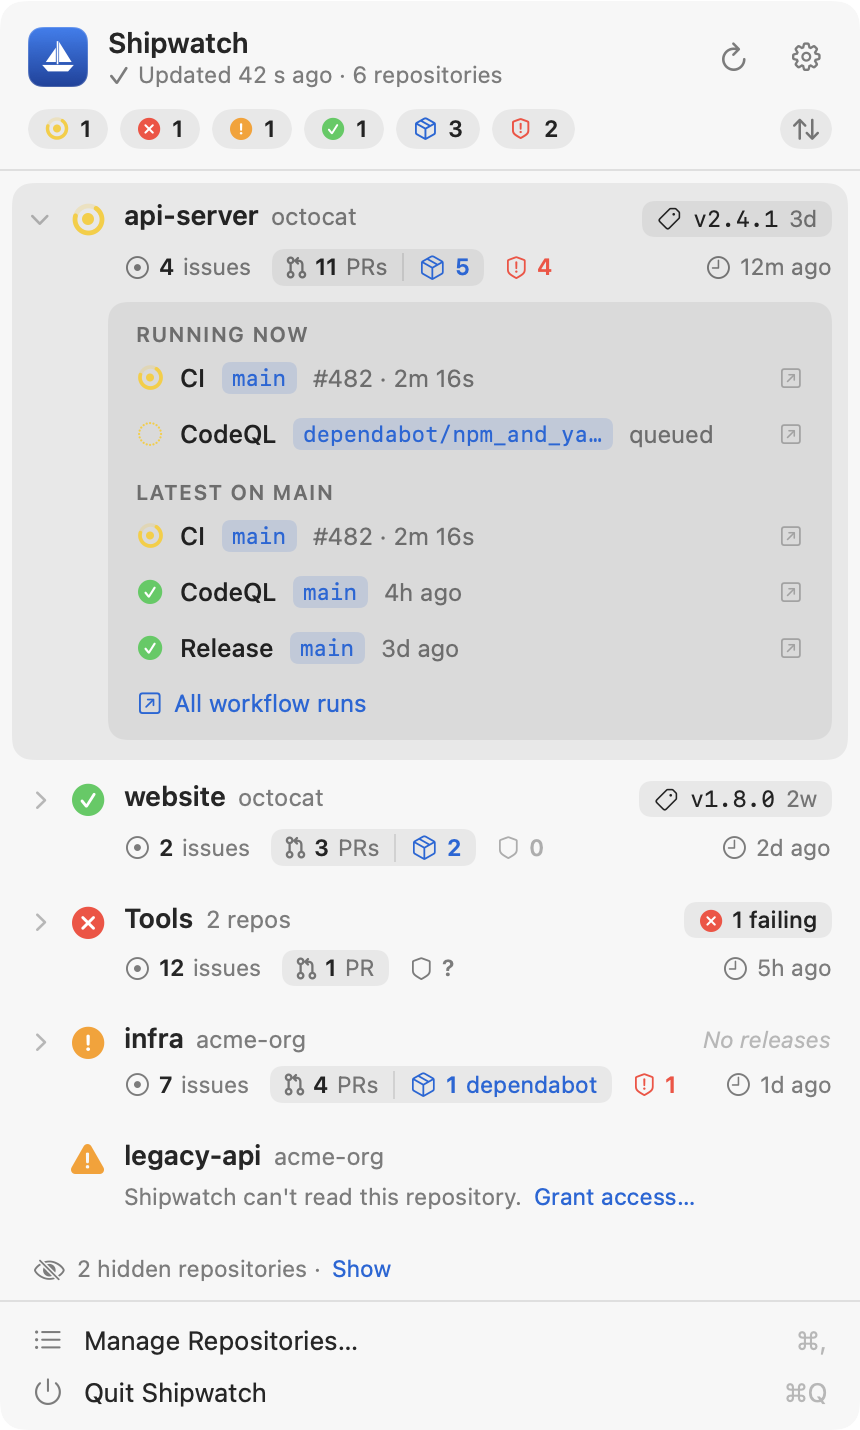
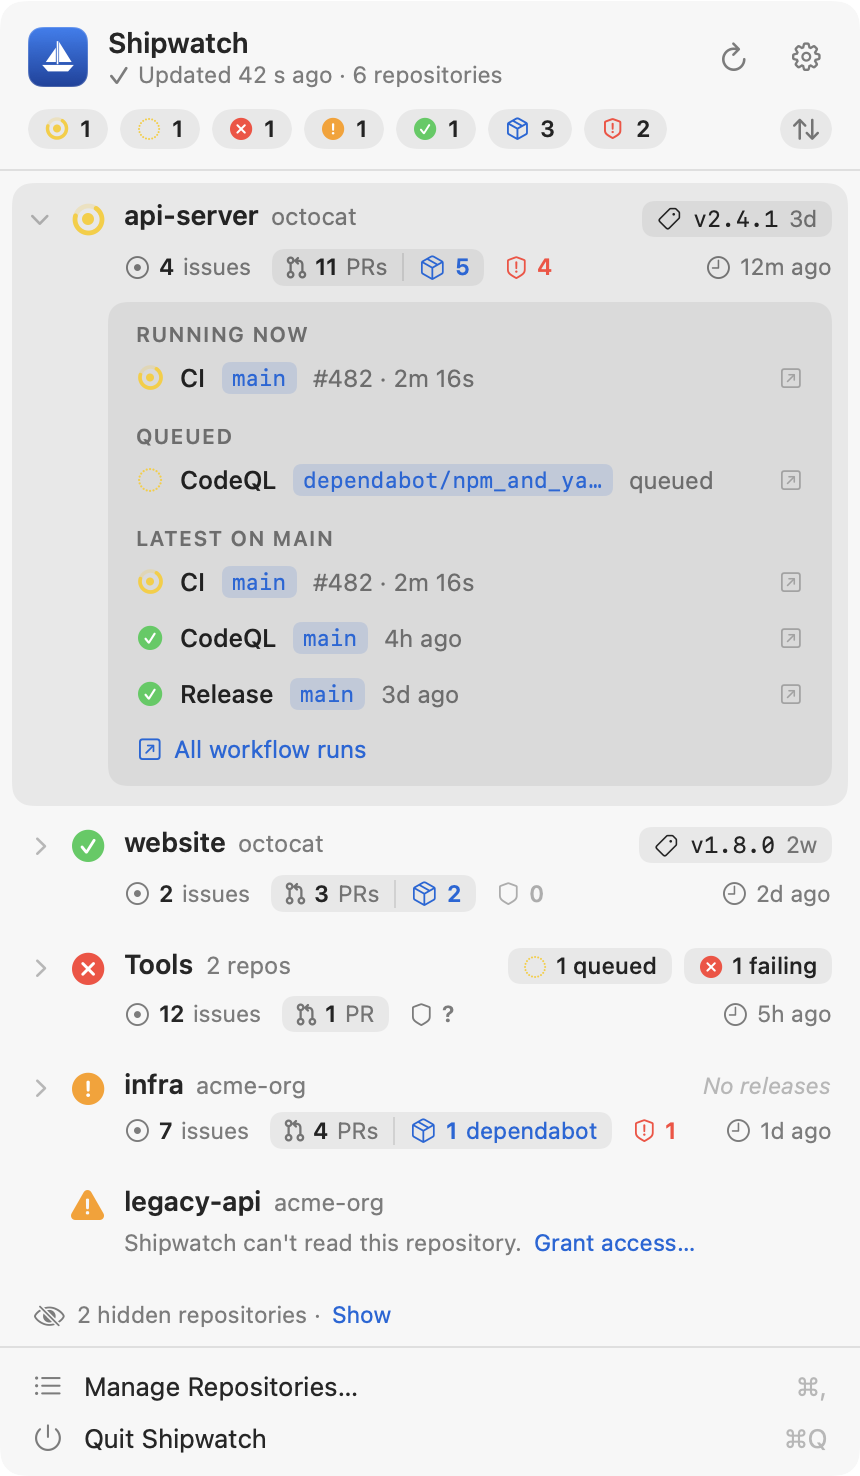
Show queued workflows as their own status instead of running
- CIState gains queued: active runs that aren't in progress yet
  (queued, waiting, requested, pending). Running beats queued, queued
  beats failing
- CISummary keeps queued runs apart from running ones, and the expanded
  row lists them under their own Queued section
- Queued gets its own chip, group breakdown count and tooltip entry; the
  running chip and menu bar count no longer include it
- The yellow dot and the 20 s refresh still cover queued runs
- Status cache version bumped so older snapshots are ignored

diff --git a/Sources/ShipwatchSnapshots/main.swift b/Sources/ShipwatchSnapshots/main.swift
@@ -60,6 +60,7 @@ func mockStatuses() -> [RepoStatus] {
     let codeQL = run(3011, "CodeQL", number: 301, status: "queued", branch: "dependabot/npm_and_yarn/express-4.21.2", event: "pull_request", startedAgo: 20, repo: api)
     let website = ref("octocat/website")
     let cli = ref("octocat/cli-tool")
+    let dotfiles = ref("octocat/dotfiles")
     let infra = ref("acme-org/infra")
     var terraformPlan = run(6400, "Terraform plan", number: 640, status: "completed", conclusion: "failure", startedAgo: 26 * hour, repo: infra)
     terraformPlan.jobsNeverStarted = true
@@ -68,7 +69,7 @@ func mockStatuses() -> [RepoStatus] {
         RepoStatus(
             ref: api, isPrivate: true, defaultBranch: "main", latestRelease: release("v2.4.1", api, daysAgo: 3),
             openIssues: 4, openPullRequests: 11, dependabotPullRequests: 5, pushedAt: ago(12 * minute),
-            ci: CISummary(state: .running, running: [apiCI, codeQL], latestOnDefault: [
+            ci: CISummary(state: .running, running: [apiCI], queued: [codeQL], latestOnDefault: [
                 apiCI,
                 run(3010, "CodeQL", number: 300, status: "completed", conclusion: "success", startedAgo: 5 * hour, repo: api),
                 run(5710, "Release", number: 57, status: "completed", conclusion: "success", event: "release", startedAgo: 3 * day + hour, repo: api),
@@ -78,7 +79,7 @@ func mockStatuses() -> [RepoStatus] {
         RepoStatus(
             ref: website, defaultBranch: "main", latestRelease: release("v1.8.0", website, daysAgo: 14),
             openIssues: 2, openPullRequests: 3, dependabotPullRequests: 2, pushedAt: ago(2 * day),
-            ci: CISummary(state: .passing, running: [], latestOnDefault: [
+            ci: CISummary(state: .passing, latestOnDefault: [
                 run(1200, "Deploy", number: 120, status: "completed", conclusion: "success", startedAgo: 2 * day, repo: website),
             ]),
             securityAlerts: SecurityAlerts(dependabot: 0, codeScanning: 0, secretScanning: 0)
@@ -97,7 +98,15 @@ func mockStatuses() -> [RepoStatus] {
             ci: CISummary(state: .notStarted, running: [], latestOnDefault: [terraformPlan]),
             securityAlerts: SecurityAlerts(dependabot: 1, codeScanning: nil, secretScanning: nil)
         ),
-        RepoStatus(ref: ref("octocat/dotfiles"), defaultBranch: "main", pushedAt: ago(41 * day), ci: .empty, securityAlerts: noAlerts),
+        RepoStatus(
+            ref: dotfiles, defaultBranch: "main", pushedAt: ago(41 * day),
+            ci: CISummary(state: .queued, queued: [
+                run(2210, "Lint", number: 221, status: "queued", startedAgo: 45, repo: dotfiles),
+            ], latestOnDefault: [
+                run(2200, "Lint", number: 220, status: "completed", conclusion: "success", startedAgo: 41 * day, repo: dotfiles),
+            ]),
+            securityAlerts: noAlerts
+        ),
         RepoStatus(ref: ref("octocat/old-blog"), isArchived: true, defaultBranch: "main", latestRelease: release("v1.0.0", ref("octocat/old-blog"), daysAgo: 700), pushedAt: ago(620 * day), ci: .empty, securityAlerts: noAlerts),
         RepoStatus(ref: ref("octocat/experiments"), defaultBranch: "main", openIssues: 1, pushedAt: ago(9 * day), ci: .empty, securityAlerts: noAlerts),
         RepoStatus(ref: ref("acme-org/legacy-api"), problem: .noAccess),

diff --git a/Tests/ShipwatchCoreTests/CIEvaluatorTests.swift b/Tests/ShipwatchCoreTests/CIEvaluatorTests.swift
@@ -9,15 +9,34 @@ struct CIEvaluatorTests {
         #expect(CIEvaluator.summarize(runs: [], defaultBranch: "main").state == .none)
     }
 
-    @Test func activeRunOnAnyBranchMeansRunning() {
+    @Test func queuedRunOnAnyBranchMeansQueued() {
         let runs = [
             F.run(3, workflow: 1, status: "queued", conclusion: nil, branch: "dependabot/npm/vite-6.1", created: "2026-11-14T15:39:00Z"),
             F.run(2, workflow: 1, conclusion: "failure", created: "2026-11-14T15:00:00Z"),
         ]
         let summary = CIEvaluator.summarize(runs: runs, defaultBranch: "main")
-        #expect(summary.state == .running)
-        #expect(summary.running.map(\.id) == [3])
+        #expect(summary.state == .queued)
+        #expect(summary.running.isEmpty)
+        #expect(summary.queued.map(\.id) == [3])
         #expect(summary.primaryRun?.id == 3)
+    }
+
+    @Test(arguments: ["waiting", "requested", "pending"])
+    func runsNotYetInProgressAreQueued(_ status: String) {
+        let runs = [F.run(1, workflow: 1, status: status, conclusion: nil, created: "2026-11-14T15:00:00Z")]
+        #expect(CIEvaluator.summarize(runs: runs, defaultBranch: "main").state == .queued)
+    }
+
+    @Test func inProgressRunMeansRunningAndKeepsQueuedApart() {
+        let runs = [
+            F.run(3, workflow: 2, status: "queued", conclusion: nil, created: "2026-11-14T15:39:00Z"),
+            F.run(2, workflow: 1, status: "in_progress", conclusion: nil, created: "2026-11-14T15:30:00Z"),
+        ]
+        let summary = CIEvaluator.summarize(runs: runs, defaultBranch: "main")
+        #expect(summary.state == .running)
+        #expect(summary.running.map(\.id) == [2])
+        #expect(summary.queued.map(\.id) == [3])
+        #expect(summary.primaryRun?.id == 2)
     }
 
     @Test func onlyLatestRunPerWorkflowOnDefaultBranchCounts() {
@@ -87,14 +106,15 @@ struct CIEvaluatorTests {
     @Test func overallCountsEachCIState() {
         let ref = RepoRef(owner: "mbianchidev", name: "api-server")
         let statuses = [
-            RepoStatus(ref: ref, ci: CISummary(state: .running, running: [], latestOnDefault: [])),
-            RepoStatus(ref: ref, ci: CISummary(state: .failing, running: [], latestOnDefault: [])),
-            RepoStatus(ref: ref, ci: CISummary(state: .notStarted, running: [], latestOnDefault: [])),
-            RepoStatus(ref: ref, ci: CISummary(state: .passing, running: [], latestOnDefault: [])),
+            RepoStatus(ref: ref, ci: CISummary(state: .running)),
+            RepoStatus(ref: ref, ci: CISummary(state: .queued)),
+            RepoStatus(ref: ref, ci: CISummary(state: .failing)),
+            RepoStatus(ref: ref, ci: CISummary(state: .notStarted)),
+            RepoStatus(ref: ref, ci: CISummary(state: .passing)),
             RepoStatus(ref: ref),
         ]
         let overall = OverallStatus(statuses)
-        #expect(overall == OverallStatus(running: 1, failing: 1, notStarted: 1, passing: 1))
+        #expect(overall == OverallStatus(running: 1, queued: 1, failing: 1, notStarted: 1, passing: 1))
     }
 
     @Test func activityModes() {

diff --git a/Sources/ShipwatchCore/CIEvaluator.swift b/Sources/ShipwatchCore/CIEvaluator.swift
@@ -4,11 +4,14 @@ public enum CIEvaluator {
     public static let activeStatuses: Set<String> = ["queued", "in_progress", "waiting", "requested", "pending"]
     public static let failedConclusions: Set<String> = ["failure", "timed_out"]
 
-    /// Running wins over failing, failing over not started, not started over passing. Only the latest completed
-    /// run of each workflow on the default branch decides, so an old red run that was fixed later is ignored.
+    /// Running wins over queued, queued over failing, failing over not started, not started over passing. Only the
+    /// latest completed run of each workflow on the default branch decides, so an old red run that was fixed later
+    /// is ignored.
     public static func summarize(runs: [WorkflowRun], defaultBranch: String?) -> CISummary {
         let sorted = runs.sorted { $0.createdAt > $1.createdAt }
-        let running = sorted.filter(\.isActive)
+        let active = sorted.filter(\.isActive)
+        let running = active.filter { !$0.isQueued }
+        let queued = active.filter(\.isQueued)
 
         var seenWorkflows = Set<Int>()
         var latest: [WorkflowRun] = []
@@ -22,6 +25,8 @@ public enum CIEvaluator {
         let state: CIState
         if !running.isEmpty {
             state = .running
+        } else if !queued.isEmpty {
+            state = .queued
         } else if latest.contains(where: \.isFailure) {
             state = .failing
         } else if latest.contains(where: \.didNotStart) {
@@ -31,7 +36,7 @@ public enum CIEvaluator {
         } else {
             state = .none
         }
-        return CISummary(state: state, running: running, latestOnDefault: latest)
+        return CISummary(state: state, running: running, queued: queued, latestOnDefault: latest)
     }
 
     /// GitHub fails every job of a run without handing it to a runner when billing blocks Actions (failed payment,
@@ -46,12 +51,14 @@ public enum CIEvaluator {
 /// What the menu bar icon shows across all visible repositories.
 public struct OverallStatus: Equatable, Sendable {
     public var running: Int
+    public var queued: Int
     public var failing: Int
     public var notStarted: Int
     public var passing: Int
 
-    public init(running: Int = 0, failing: Int = 0, notStarted: Int = 0, passing: Int = 0) {
+    public init(running: Int = 0, queued: Int = 0, failing: Int = 0, notStarted: Int = 0, passing: Int = 0) {
         self.running = running
+        self.queued = queued
         self.failing = failing
         self.notStarted = notStarted
         self.passing = passing
@@ -62,6 +69,7 @@ public struct OverallStatus: Equatable, Sendable {
         for status in statuses {
             switch status.ciState {
             case .running: running += 1
+            case .queued: queued += 1
             case .failing: failing += 1
             case .notStarted: notStarted += 1
             case .passing: passing += 1

diff --git a/Sources/ShipwatchCore/Models.swift b/Sources/ShipwatchCore/Models.swift
@@ -159,30 +159,35 @@ public struct WorkflowJob: Equatable, Sendable, Decodable {
 
 public enum CIState: String, Codable, Equatable, Sendable {
     case none, passing, failing, running
+    /// Runs are waiting to start (for a runner, an approval or a concurrency slot) and none is in progress.
+    case queued
     /// The latest runs failed before any job ran, usually billing or the workflow configuration.
     case notStarted
 }
 
 public struct CISummary: Codable, Equatable, Sendable {
     public var state: CIState
-    /// Active runs on any branch, newest first.
+    /// In-progress runs on any branch, newest first.
     public var running: [WorkflowRun]
+    /// Runs on any branch that are active but not in progress yet, newest first.
+    public var queued: [WorkflowRun]
     /// The latest completed run of each workflow on the default branch, newest first.
     public var latestOnDefault: [WorkflowRun]
 
-    public init(state: CIState, running: [WorkflowRun], latestOnDefault: [WorkflowRun]) {
+    public init(state: CIState, running: [WorkflowRun] = [], queued: [WorkflowRun] = [], latestOnDefault: [WorkflowRun] = []) {
         self.state = state
         self.running = running
+        self.queued = queued
         self.latestOnDefault = latestOnDefault
     }
 
-    public static let empty = CISummary(state: .none, running: [], latestOnDefault: [])
+    public static let empty = CISummary(state: .none)
 
-    /// The run the status icon links to: the newest running one, else the newest failure, else the newest run
-    /// that never started, else the newest result.
+    /// The run the status icon links to: the newest running one, else the newest queued one, else the newest
+    /// failure, else the newest run that never started, else the newest result.
     public var primaryRun: WorkflowRun? {
-        running.first ?? latestOnDefault.first(where: \.isFailure) ?? latestOnDefault.first(where: \.didNotStart)
-            ?? latestOnDefault.first
+        running.first ?? queued.first ?? latestOnDefault.first(where: \.isFailure)
+            ?? latestOnDefault.first(where: \.didNotStart) ?? latestOnDefault.first
     }
 }
 

diff --git a/Sources/ShipwatchUI/RepoRowView.swift b/Sources/ShipwatchUI/RepoRowView.swift
@@ -450,7 +450,7 @@ struct RemovalConfirmation: View {
     }
 }
 
-/// Expanded part of a row: running runs, then the latest result per workflow on the default branch.
+/// Expanded part of a row: running runs, queued runs, then the latest result per workflow on the default branch.
 struct RunsPanel: View {
     let model: AppModel
     let ref: RepoRef
@@ -458,24 +458,21 @@ struct RunsPanel: View {
     let defaultBranch: String?
 
     var body: some View {
+        let sections = [
+            ("Running now", Array(ci.running.prefix(6))),
+            ("Queued", Array(ci.queued.prefix(6))),
+            ("Latest on \(defaultBranch ?? "default branch")", Array(ci.latestOnDefault.prefix(8))),
+        ].filter { !$0.1.isEmpty }
         VStack(alignment: .leading, spacing: 2) {
-            if !ci.running.isEmpty {
-                SectionLabel("Running now")
+            ForEach(Array(sections.enumerated()), id: \.offset) { index, section in
+                SectionLabel(section.0)
                     .padding(.horizontal, 8)
-                    .padding(.top, 4)
-                ForEach(ci.running.prefix(6)) { run in
+                    .padding(.top, index == 0 ? 4 : 8)
+                ForEach(section.1) { run in
                     RunRow(model: model, run: run)
                 }
             }
-            if !ci.latestOnDefault.isEmpty {
-                SectionLabel("Latest on \(defaultBranch ?? "default branch")")
-                    .padding(.horizontal, 8)
-                    .padding(.top, ci.running.isEmpty ? 4 : 8)
-                ForEach(ci.latestOnDefault.prefix(8)) { run in
-                    RunRow(model: model, run: run)
-                }
-            }
-            if ci.running.isEmpty && ci.latestOnDefault.isEmpty {
+            if sections.isEmpty {
                 Text("No workflow runs yet.")
                     .font(.system(size: 11.5))
                     .foregroundStyle(.secondary)

diff --git a/Tests/ShipwatchCoreTests/StatusCacheTests.swift b/Tests/ShipwatchCoreTests/StatusCacheTests.swift
@@ -12,6 +12,7 @@ struct StatusCacheTests {
         var blocked = Fixtures.run(2, workflow: 20, conclusion: "failure", created: "2026-11-14T15:00:00Z")
         blocked.jobsNeverStarted = true
         let running = Fixtures.run(3, workflow: 10, status: "in_progress", conclusion: nil, created: "2026-11-14T15:30:00Z")
+        let queued = Fixtures.run(4, workflow: 30, status: "queued", conclusion: nil, created: "2026-11-14T15:35:00Z")
         let status = RepoStatus(
             ref: api, isPrivate: true, defaultBranch: "main", defaultBranchHead: "9f1c2e7",
             latestRelease: Release(
@@ -19,7 +20,7 @@ struct StatusCacheTests {
                 publishedAt: Fixtures.date("2026-11-11T10:00:00Z"), isPrerelease: true
             ),
             openIssues: 4, openPullRequests: 2, dependabotPullRequests: 1, pushedAt: Fixtures.now,
-            ci: CISummary(state: .running, running: [running], latestOnDefault: [blocked]),
+            ci: CISummary(state: .running, running: [running], queued: [queued], latestOnDefault: [blocked]),
             securityAlerts: SecurityAlerts(dependabot: 3, codeScanning: nil, secretScanning: 0)
         )
         let gone = RepoStatus(ref: RepoRef(owner: "acme-org", name: "legacy-api"), problem: .error("Server error"))
@@ -51,7 +52,7 @@ struct StatusCacheTests {
     @Test func unreadableSnapshotThrows() throws {
         defer { try? FileManager.default.removeItem(at: directory) }
         try FileManager.default.createDirectory(at: cache.url.deletingLastPathComponent(), withIntermediateDirectories: true)
-        try Data(#"{"version":1,"savedAt":0}"#.utf8).write(to: cache.url)
+        try Data(#"{"version":\#(StatusSnapshot.currentVersion),"savedAt":0}"#.utf8).write(to: cache.url)
         #expect(throws: DecodingError.self) { try cache.load() }
     }
 }

diff --git a/Sources/ShipwatchUI/GroupRowView.swift b/Sources/ShipwatchUI/GroupRowView.swift
@@ -124,6 +124,7 @@ struct GroupCIBreakdown: View {
         let unreadable = statuses.count { $0.problem != nil }
         let parts: [(glyph: CIGlyph, count: Int, label: String)] = [
             (.running, overall.running, "running"),
+            (.queued, overall.queued, "queued"),
             (.failing, overall.failing, "failing"),
             (.notStarted, overall.notStarted, "config/billing"),
             (.noAccess, unreadable, "can't read"),
@@ -164,20 +165,21 @@ struct GroupCIBreakdown: View {
 }
 
 extension CIGlyph {
-    /// What needs attention first: failing, then config/billing, then running, then passing.
+    /// What needs attention first: failing, then config/billing, then running, then queued, then passing.
     init(group statuses: [RepoStatus], members: Int) {
         guard !statuses.isEmpty else {
             self = members == 0 ? .none : .loading
             return
         }
         let overall = OverallStatus(statuses)
-        let running = statuses.compactMap { $0.ci }.filter { $0.state == .running }
         if overall.failing > 0 {
             self = .failing
         } else if overall.notStarted > 0 {
             self = .notStarted
         } else if overall.running > 0 {
-            self = running.allSatisfy { $0.running.allSatisfy(\.isQueued) } ? .queued : .running
+            self = .running
+        } else if overall.queued > 0 {
+            self = .queued
         } else if overall.passing > 0 {
             self = .passing
         } else if statuses.allSatisfy({ $0.problem != nil }) {

diff --git a/Sources/ShipwatchUI/StatusItemController.swift b/Sources/ShipwatchUI/StatusItemController.swift
@@ -67,7 +67,7 @@ final class StatusItemController: NSObject, NSPopoverDelegate {
         button.appearsDisabled = signedOut || offline
 
         // Only a running or queued workflow gets the dot; failures show in the list and the optional count.
-        dot.isHidden = overall.running == 0 || signedOut
+        dot.isHidden = overall.running + overall.queued == 0 || signedOut
         dot.layer?.backgroundColor = Theme.runningNS.cgColor
         dot.layer?.borderColor = NSColor.windowBackgroundColor.withAlphaComponent(0.9).cgColor
 
@@ -86,6 +86,7 @@ final class StatusItemController: NSObject, NSPopoverDelegate {
         if signedOut { return "Shipwatch · not signed in" }
         var parts: [String] = []
         if overall.running > 0 { parts.append("\(overall.running) running") }
+        if overall.queued > 0 { parts.append("\(overall.queued) queued") }
         if overall.failing > 0 { parts.append("\(overall.failing) failing") }
         if overall.notStarted > 0 { parts.append("\(overall.notStarted) config/billing") }
         if overall.passing > 0 { parts.append("\(overall.passing) passing") }

diff --git a/Sources/ShipwatchUI/PopoverView.swift b/Sources/ShipwatchUI/PopoverView.swift
@@ -241,6 +241,7 @@ struct SummaryChips: View {
         let overall = model.overall
         let chips = [
             Chip(filter: .ci(.running), count: overall.running, label: "running"),
+            Chip(filter: .ci(.queued), count: overall.queued, label: "queued"),
             Chip(filter: .ci(.failing), count: overall.failing, label: "failing"),
             Chip(filter: .ci(.notStarted), count: overall.notStarted, label: "config/billing"),
             Chip(filter: .ci(.passing), count: overall.passing, label: "passing"),
@@ -271,6 +272,7 @@ struct SummaryChips: View {
     private func icon(_ filter: RepoFilter) -> some View {
         switch filter {
         case .ci(.running): CIIcon(glyph: .running, size: 11)
+        case .ci(.queued): CIIcon(glyph: .queued, size: 11)
         case .ci(.failing): CIIcon(glyph: .failing, size: 11)
         case .ci(.notStarted): CIIcon(glyph: .notStarted, size: 11)
         case .ci: CIIcon(glyph: .passing, size: 11)

diff --git a/Sources/ShipwatchUI/AppModel.swift b/Sources/ShipwatchUI/AppModel.swift
@@ -213,8 +213,8 @@ public final class AppModel {
         OverallStatus(prefs.repos.visible.compactMap { statuses[$0.id] })
     }
 
-    var anyRunning: Bool {
-        prefs.repos.items.contains { statuses[$0.id]?.ciState == .running }
+    var anyActive: Bool {
+        prefs.repos.items.contains { [CIState.running, .queued].contains(statuses[$0.id]?.ciState ?? .none) }
     }
 
     /// Where the user picks which repositories the GitHub App may read.
@@ -418,7 +418,7 @@ public final class AppModel {
     /// Time between automatic refreshes right now.
     private var refreshDelay: TimeInterval {
         if let until = rateLimitedUntil, until > Date() { return until.timeIntervalSinceNow + 2 }
-        return anyRunning ? 20 : TimeInterval(prefs.refreshMinutes * 60)
+        return anyActive ? 20 : TimeInterval(prefs.refreshMinutes * 60)
     }
 
     /// `elapsed` is how long ago the data was fetched, when that wasn't just now.

diff --git a/Sources/ShipwatchCore/StatusCache.swift b/Sources/ShipwatchCore/StatusCache.swift
@@ -3,7 +3,7 @@ import Foundation
 /// The statuses of the last successful refresh.
 public struct StatusSnapshot: Codable, Equatable, Sendable {
     /// Bump when `RepoStatus` changes in a way older snapshots can't express; other versions are ignored.
-    public static let currentVersion = 1
+    public static let currentVersion = 2
 
     public var version: Int
     public var savedAt: Date

diff --git a/Sources/ShipwatchUI/SettingsView.swift b/Sources/ShipwatchUI/SettingsView.swift
@@ -150,7 +150,7 @@ struct GeneralSettingsView: View {
                 .labelsHidden()
                 .fixedSize()
             }
-            formCaption("Refreshes faster (every 20 s) while a workflow is running.")
+            formCaption("Refreshes faster (every 20 s) while a workflow is running or queued.")
 
             GridRow {
                 formLabel("Last activity means:")
